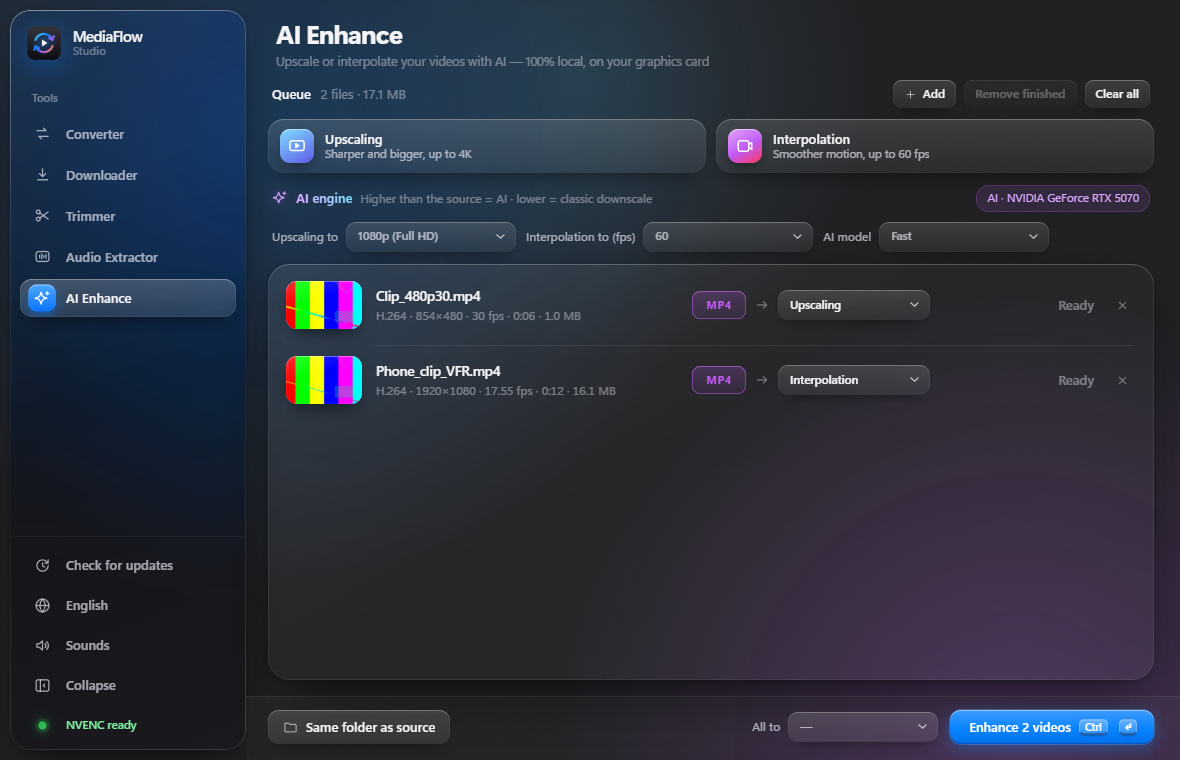
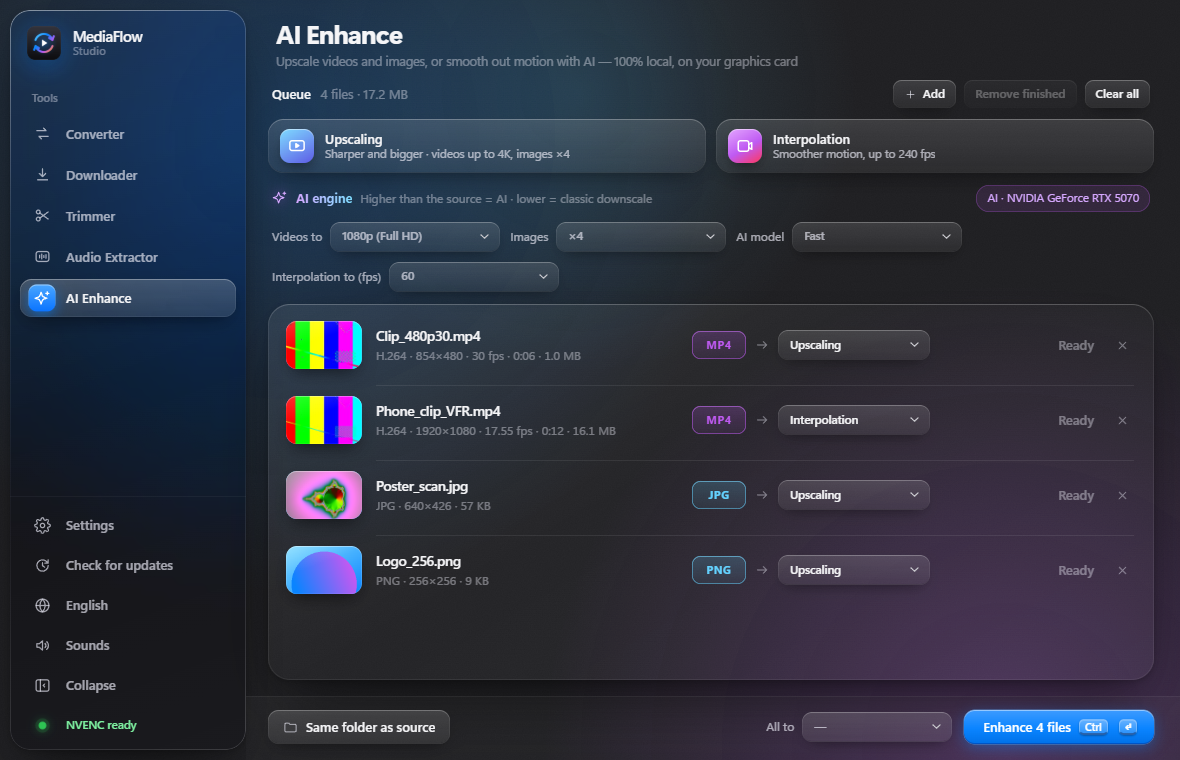
README screenshots for v1.2.3
All six captures retaken on 1.2.3 (English): Settings in the sidebar, AI Enhance with images in the queue.

diff --git a/README.md b/README.md
@@ -46,8 +46,8 @@ Install it in two clicks: everything is included, nothing else to set up.
 </div>
 
 <div align="center">
-<img src="docs/screenshots/ai-enhance.png" alt="AI Enhance — Upscaling and Interpolation on your GPU" width="90%">
-<br><sub><b>AI Enhance</b> — Real-ESRGAN upscaling and RIFE interpolation, running locally on your GPU.</sub>
+<img src="docs/screenshots/ai-enhance.png" alt="AI Enhance — Upscaling (videos and images) and Interpolation on your GPU" width="90%">
+<br><sub><b>AI Enhance</b> — Real-ESRGAN upscaling for videos and images, RIFE interpolation, running locally on your GPU.</sub>
 </div>
 
 <br>
